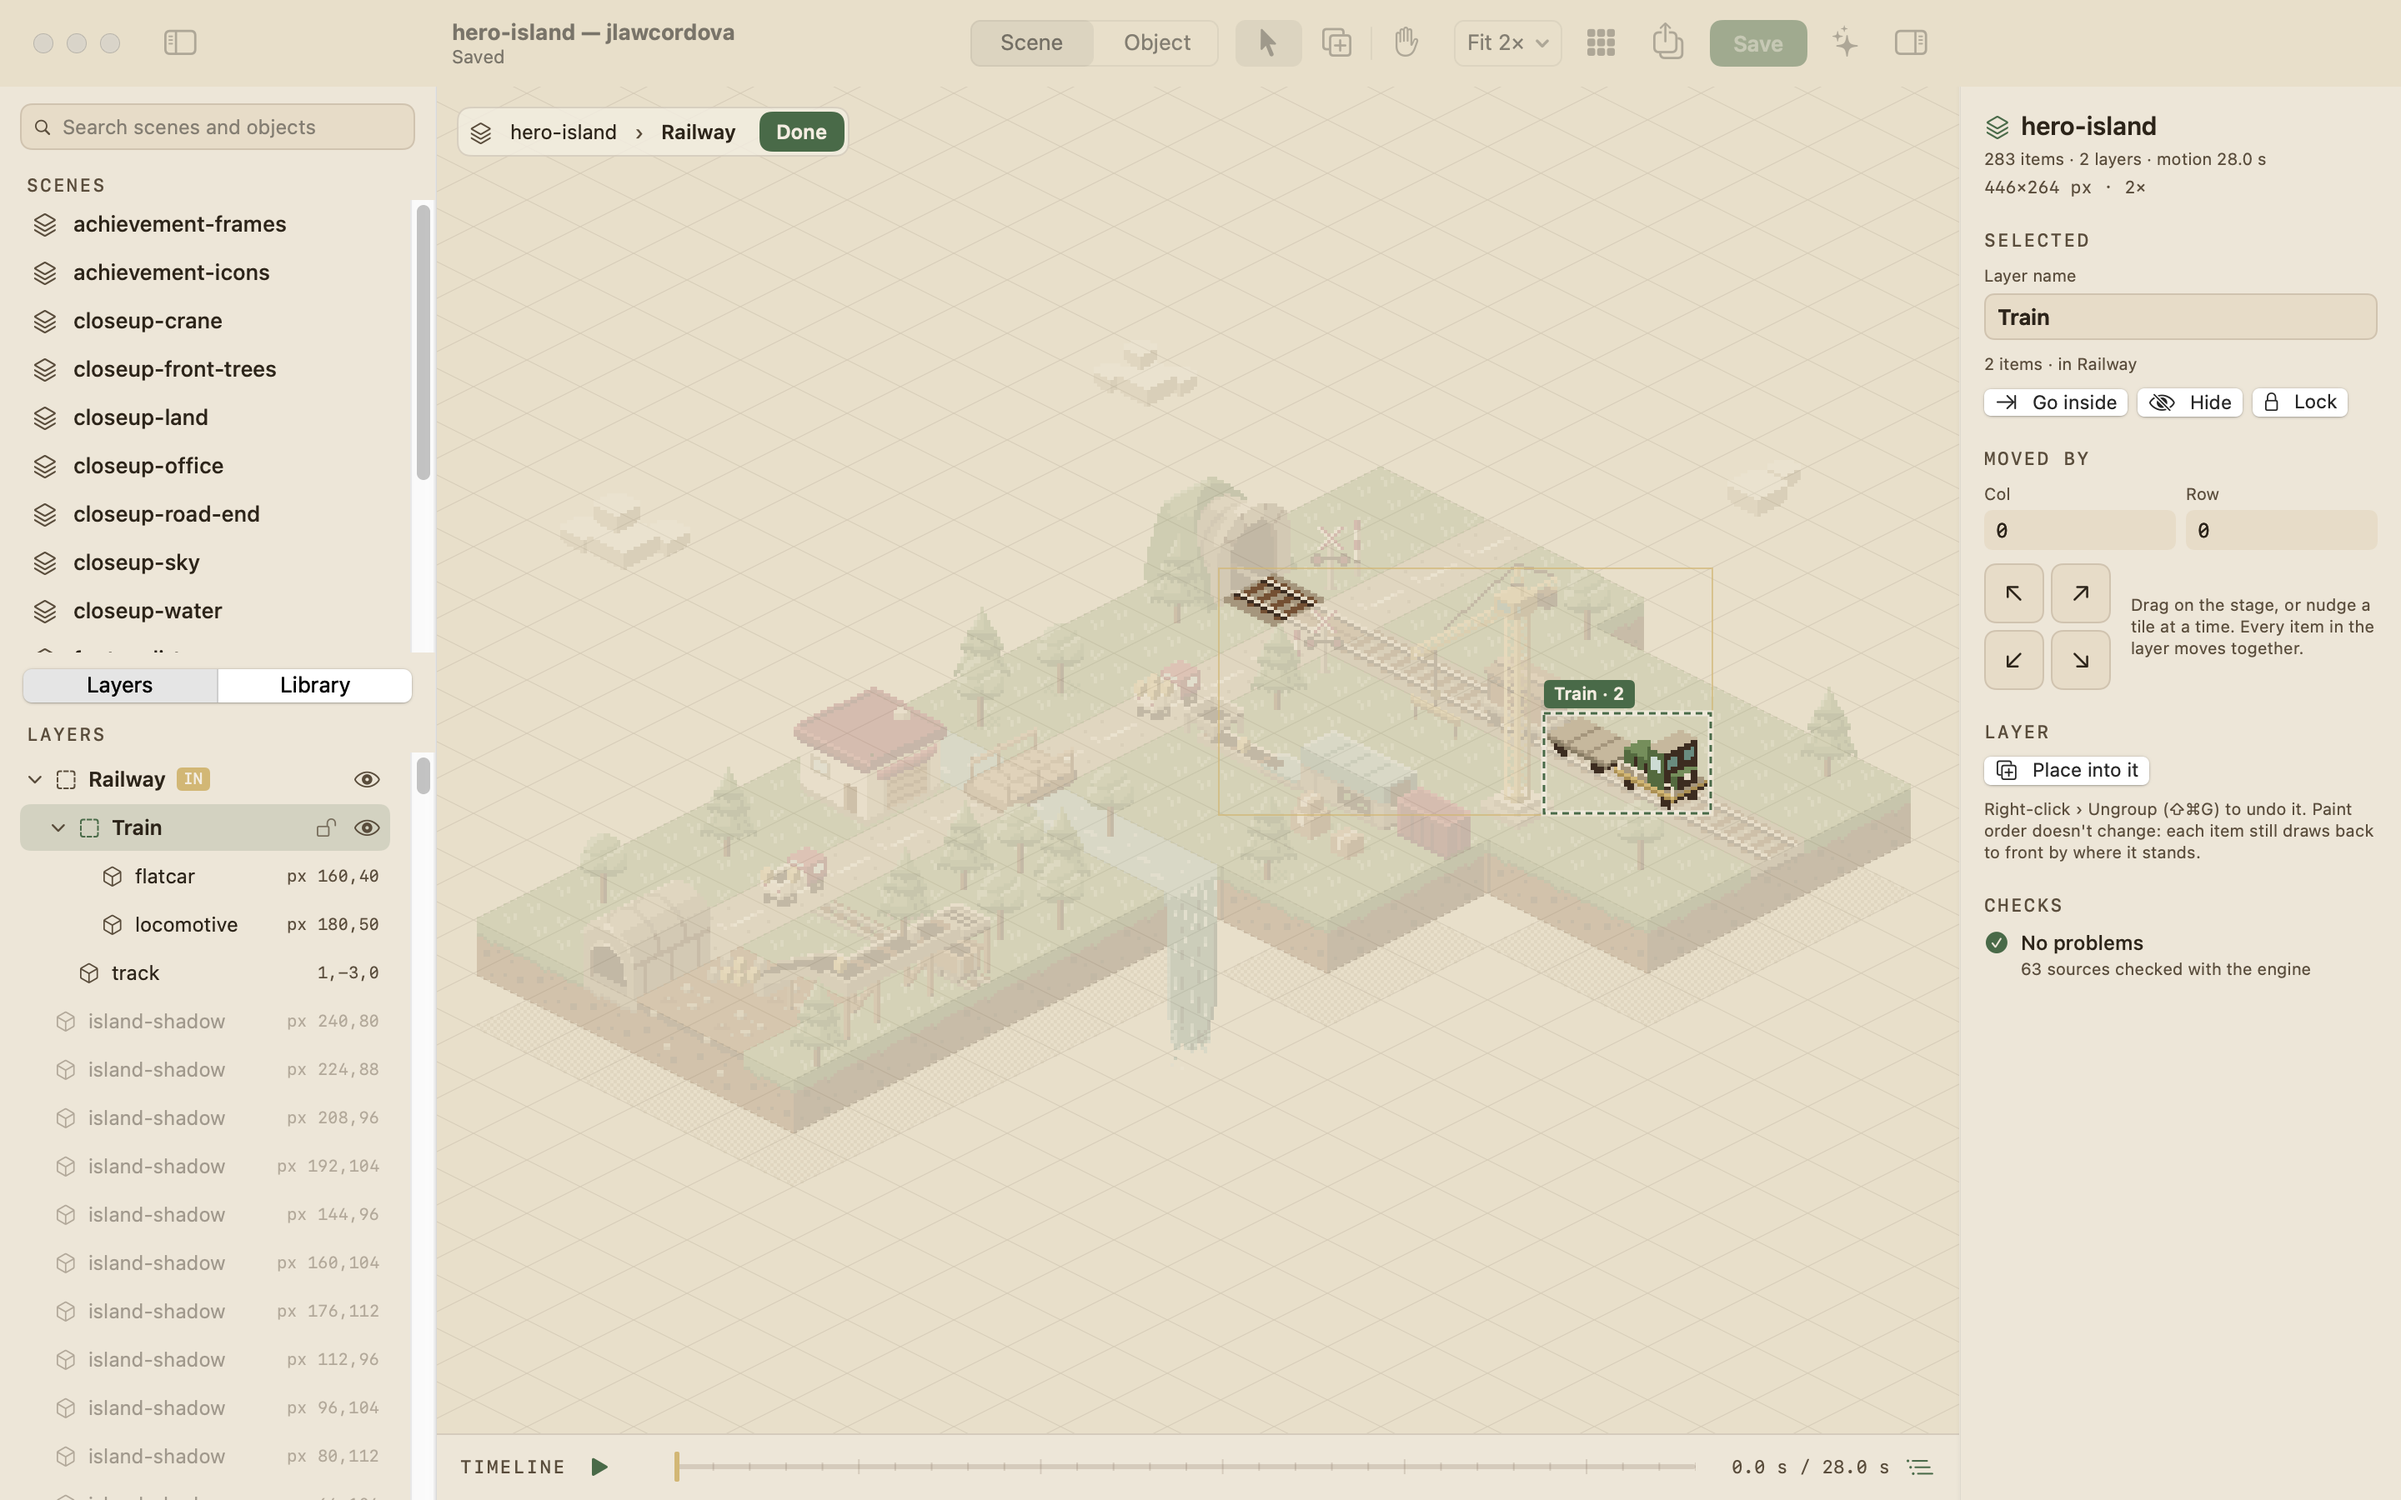
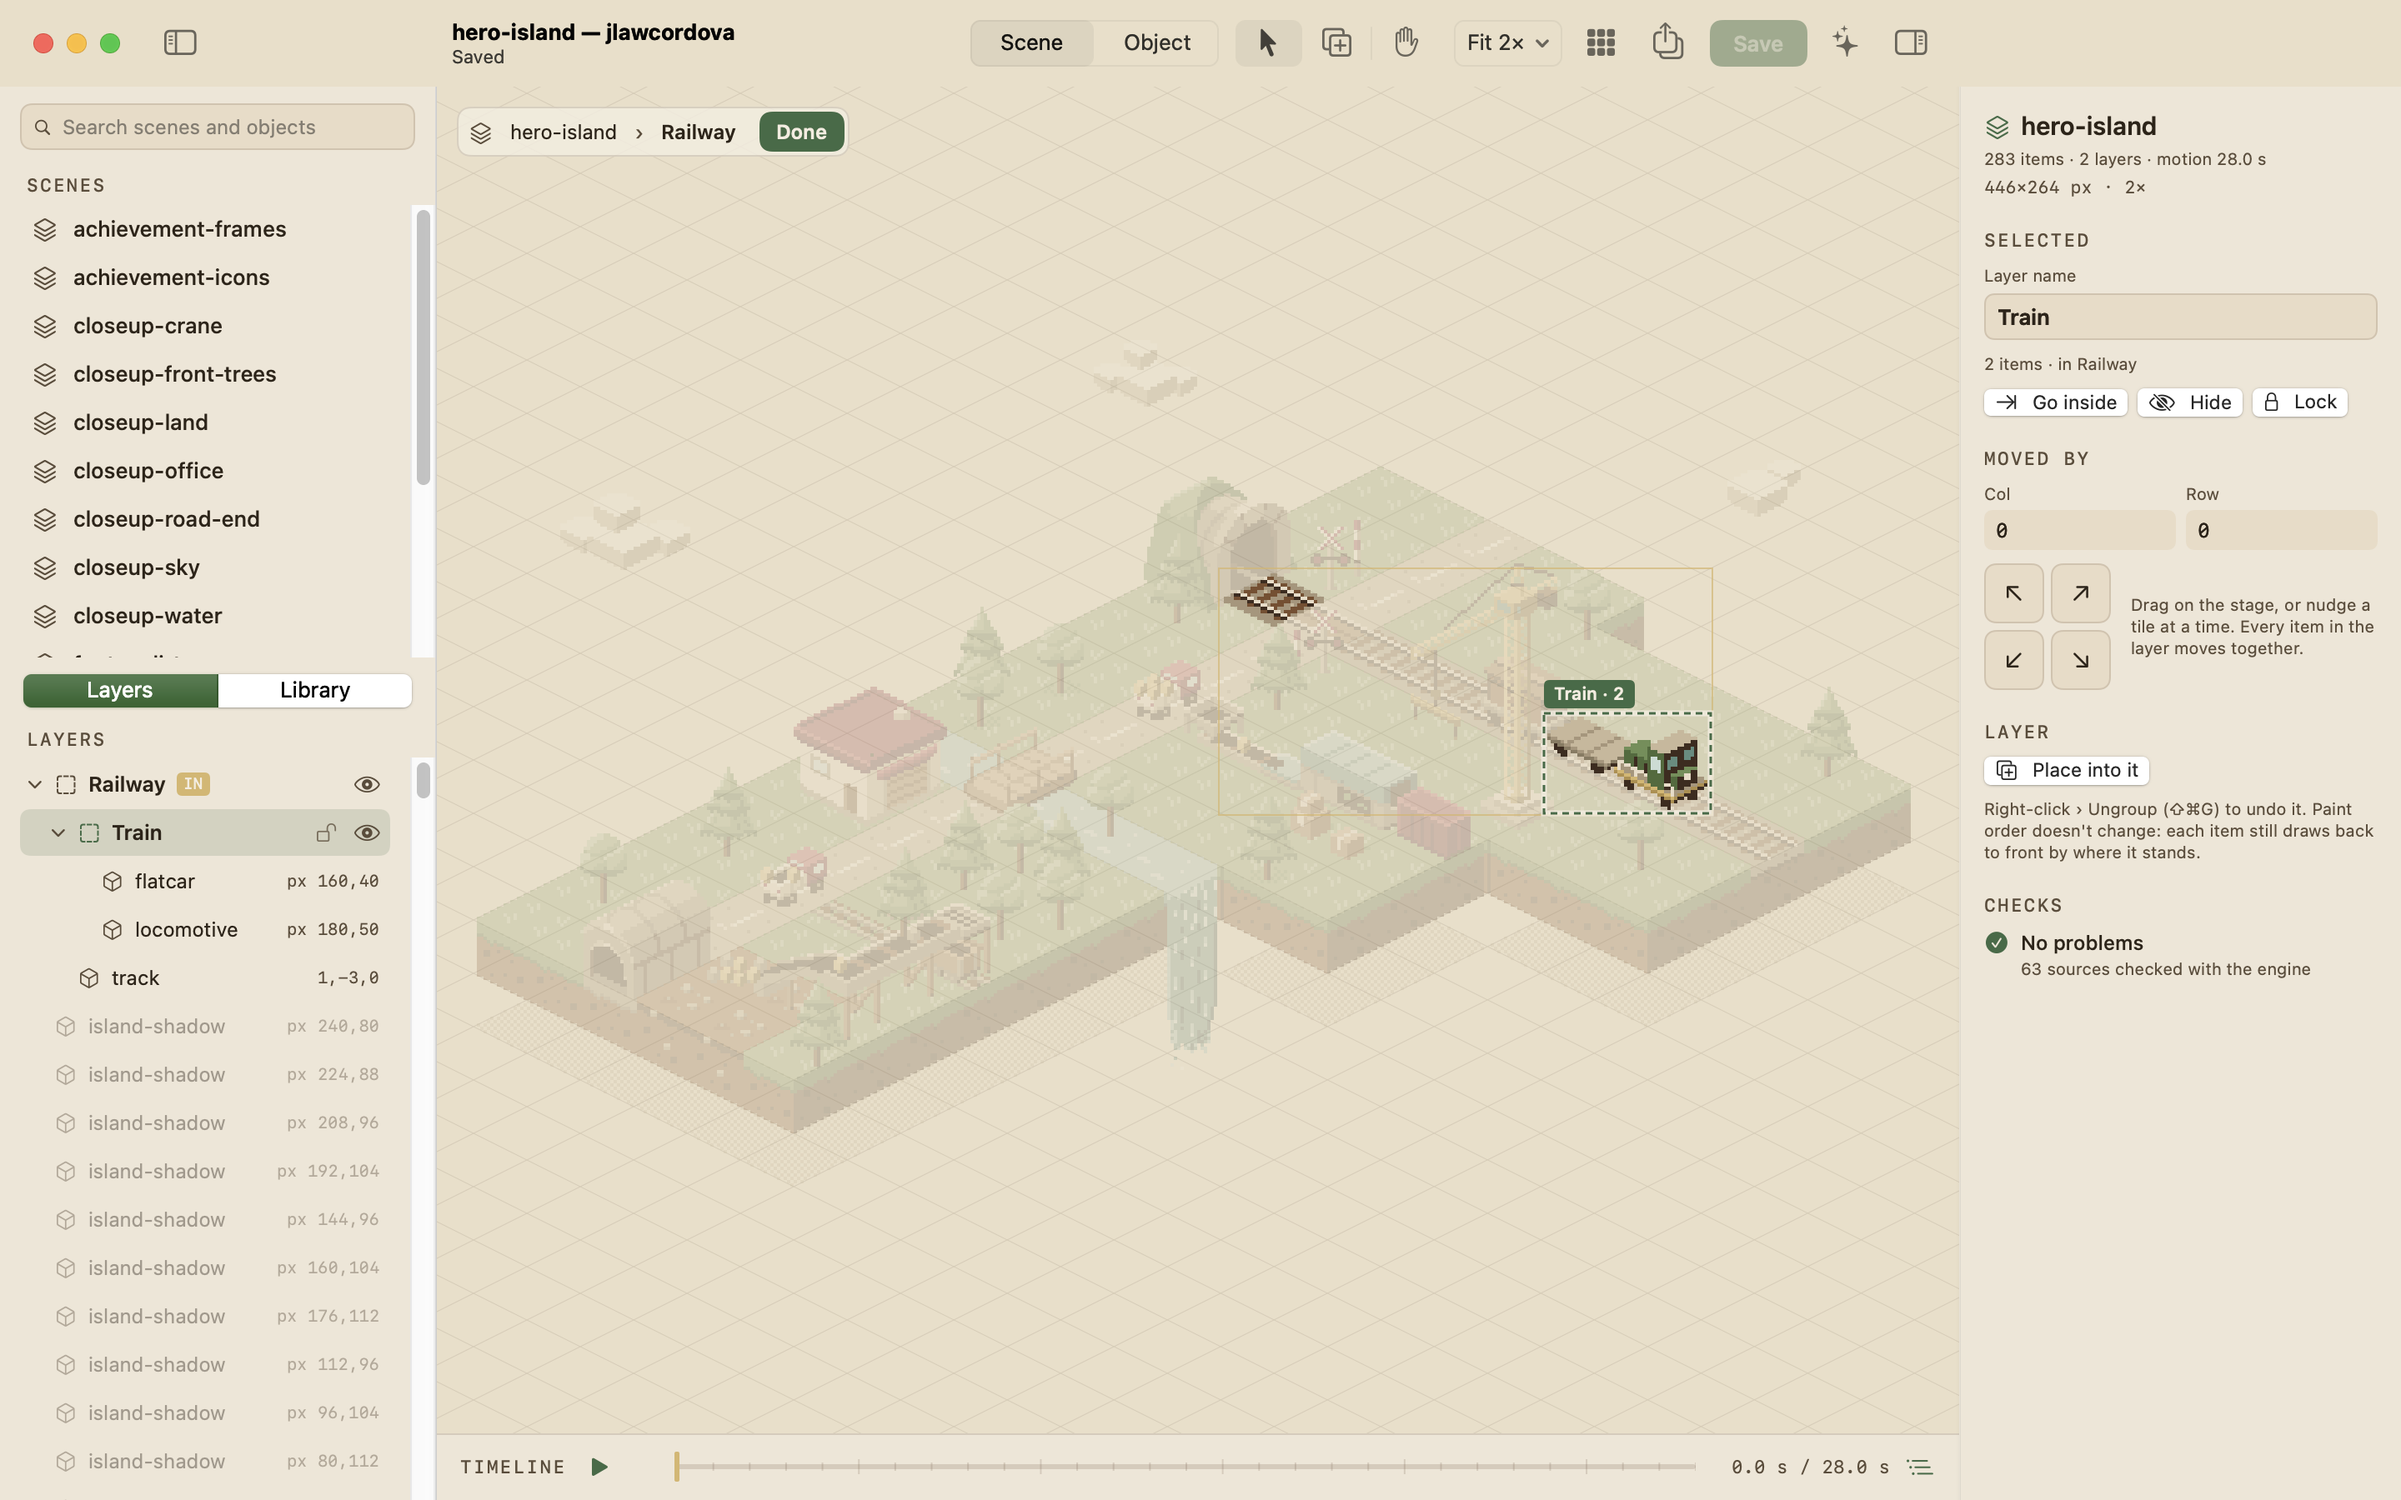
Two different layers both sides made as Group 1 clash in a merge
Both sides' Cmd-G (or an agent's unnamed scene_layer_new) write the same
{ id: 'group-1', name: 'Group 1' } line, so the line merge took it once
and two groups became one, reported as merged (found by the
verify-change re-check on #20). Session.merge now refuses a layer id new
on both sides unless both put the same items in it; the same change made
twice still merges. Tests each way; D1 says so; the scene list's heading
gets a little room above the list.

diff --git a/app/Sources/PixelLab/Views/SidebarView.swift b/app/Sources/PixelLab/Views/SidebarView.swift
@@ -22,6 +22,7 @@ struct SidebarView: View {
                 // Layers tree and the Library below keep their own scroll (D11).
                 sectionHeader("Scenes", count: nil)
                     .padding(.horizontal, 10)
+                    .padding(.bottom, 3)
                 ScrollViewReader { proxy in
                     ScrollView {
                         VStack(spacing: 1) {

diff --git a/docs/intents/2026-10-scene-layers/spec.md b/docs/intents/2026-10-scene-layers/spec.md
@@ -69,7 +69,7 @@ export default {
 - When the last layer of a scene is ungrouped, `layers` is removed, so the file is exactly what it was before.
 - A layer's id is made from its first name (`Group 1` → `group-1`, `Railway` → `railway`; `-2`, `-3` when taken; `layer-…` when the name doesn't start with a letter) and doesn't change on rename, so a rename touches one line. Commands take a layer by id, or by its exact name when only one layer has it.
 - Why not a sidecar file or ids per wrapper: the item's own `layer` moves with it through every existing edit (raise, lower, duplicate, remove, undo, proposals, three-way merges) with no bookkeeping, where paths into the items would break on every insert.
-- **Three-way merges** (`doc.merge`, and approving a proposal into an open copy with unsaved edits): the scene line merge keeps both sides' new lines, so when both sides made a scene's first layers it would hold two `layers:` lists, and importing keeps only the last. The merge folds them into one list, ours first. A layer id both sides made for different layers, or another top-level key both sides added (two `motion:` blocks), is a clash (`merge_conflict`). And a merge whose result has validation problems that neither side had (an item in a layer the other side ungrouped) is refused (`merge_invalid`). Nothing changes when a merge is refused.
+- **Three-way merges** (`doc.merge`, and approving a proposal into an open copy with unsaved edits): the scene line merge keeps both sides' new lines, so when both sides made a scene's first layers it would hold two `layers:` lists, and importing keeps only the last. The merge folds them into one list, ours first. A layer id both sides made for different layers, or another top-level key both sides added (two `motion:` blocks), is a clash (`merge_conflict`). That includes a layer both sides made under the same default name (two ⌘Gs both make "Group 1", `group-1`): it clashes unless both sides put the same items in it, so the same change made twice still merges. And a merge whose result has validation problems that neither side had (an item in a layer the other side ungrouped) is refused (`merge_invalid`). Nothing changes when a merge is refused.
 
 ### D2. Paint order and output (R2)
 
